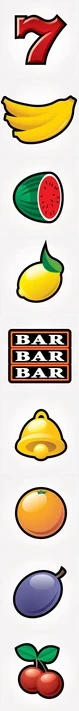
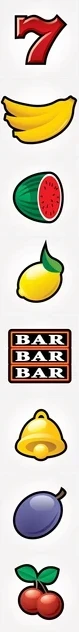
got rid of orange cuz cbs

diff --git a/assets/js/script.js b/assets/js/script.js
@@ -27,10 +27,10 @@ document.addEventListener('DOMContentLoaded', () => {
 
 const icon_width = 79,
       icon_height = 79,
-      num_icons = 9,
+      num_icons = 8,
       time_per_icon = 100,
       indexes = [0, 0, 0],
-      icon_map = ["banana", "seven", "cherry", "plum", "orange", "bell", "bar", "lemon", "melon"];
+      icon_map = ["banana", "seven", "cherry", "plum", "bell", "bar", "lemon", "melon"];
 
 const roll = (reel, offset = 0) => {
     // Pick a random icon to land on
@@ -123,7 +123,7 @@ function rollAll() {
 
     spinSound = () => {
         playSound('blipSound', Math.random() * 0.1 + 1.2 + (Date.now() - spinStartTime)/2000);
-        if(isSpinning && Date.now() - spinStartTime < 1500) setTimeout(spinSound, (Date.now() - spinStartTime)/15 + 100);
+        if(isSpinning && Date.now() - spinStartTime < 3000) setTimeout(spinSound, (Date.now() - spinStartTime)/15 + 100);
     };
 
     spinSound();
@@ -211,7 +211,6 @@ async function finalizeCode() {
 
   window.codeMirrorEditor.setValue(obfuscated);
 }
-
 
 // #region Obfusc. Effects
 
@@ -333,23 +332,10 @@ function obfuscatePlum(code, special) {
     });
 }
 
-// add random functions that do a ton of 'complex' stuff but just pass at the end or return a value and have no implementations
-// def solveWorldHunger(), findWhoAsked(), goofy stuff like that
-const funnyFunctionNames = ["solveWorldHunger", "findWhoAsked", "makeCoffeeMagically", "deleteInternet", "predictLotteryNumbers", "summonRubberDuck", "fixAllBugs", "blameIntern", "getMotivated", "escapeMeeting", "cookPizzaInRAM", "enableLightsaberMode", "timeTravelToFriday", "sendFaxToMars", "hugYourCode", "screamIntoVoid", "seduceStackOverflow", "downloadMoreRAM", "teleportToOffice", "askManagerForRaise", "compileFeelings", "alignPlanets", "procrastinateEfficiently", "avoidNullPointer", "memeifyOutput", "crashForFun", "launchNuclearOption", "findWaldo", "teachDogToCode", "yeetIntoProduction"];
-function obfuscateOrange(code, special) {
-    const funcName = Math.random() * funnyFunctionNames.length
-    const lines = special ? Math.floor(Math.random() * 10) + 6 : Math.floor(Math.random() * 8);
-
-    // just need to implement complicated function. maybe complicated string manipulation or math, idk
-
-    console.log(lines);
-    
-    return code;
-}
-
 // chat don't bully my prompt writing. it works ok?. thx
 let prompt = "You are a senior developer reviewing junior code. Your task is to add short, sarcastic, and funny inline comments to the code. Roast bad or inefficient code like a grumpy dev with too much caffeine. Be direct, snarky, and a little rude, but stay workplace-appropriate. Explain what each part of the code does, but mock it if it’s outdated, verbose, or inefficient. Keep comments in-line, using # for Python (or appropriate syntax). Output only the code with comments added—no extra explanation. Example style: '# this is the most inefficient possible way to add two strings'."
 
+// writes a bunch of snarky ai comments all throughout the code
 async function obfuscateBell(code, special) {
     async function getAIComments(fullPrompt) {
         const response = await fetch(`https://ai.hackclub.com/chat/completions`, {
@@ -435,9 +421,7 @@ subprocess.run([sys.executable, middle_path])
     `.trim();
 }
 
-
 // add classes with massive __init__ functions that do nothing
-// just like initialize a bunch of random variables, maybe pulled from a wordlist then do nothing with them
 function obfuscateLemon(code, special) {
     const className = special ? genSafeVarName(16) : genSafeVarName(8);
     const numInits = Math.floor(Math.random() * (className.length + 1));
@@ -520,7 +504,6 @@ const iconObfuscators = [
   obfuscateSeven,
   obfuscateCherry,
   obfuscatePlum,
-  obfuscateOrange,
   obfuscateBell,
   obfuscateBar,
   obfuscateLemon,

diff --git a/README.md b/README.md
@@ -12,8 +12,4 @@
 Fix title breaking when you spam press the button
 
 **Special effects for:**
-`Plum, Orange, Bar`
-
-Orange - add random functions that do a ton of 'complex' stuff but just pass / return 0 / have no implementations
-
-Bar - NEVERMIND im making it write the code to a file and then run that
+`Plum`
